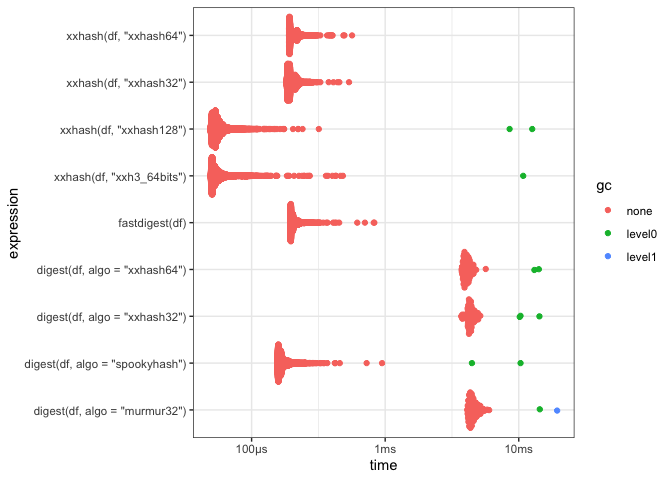
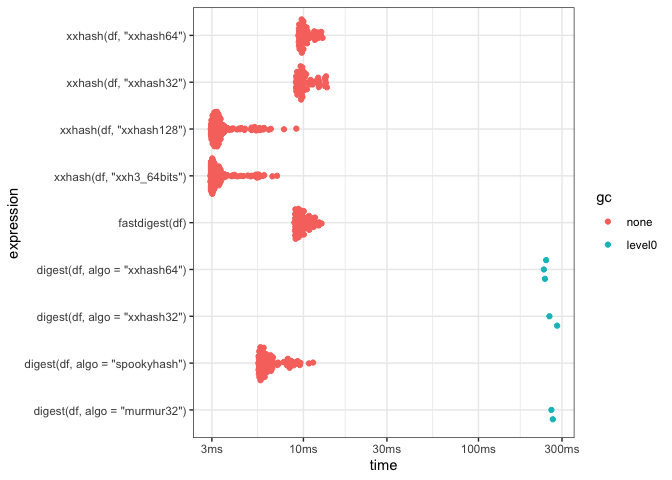
increase size of benchmark data

diff --git a/README.md b/README.md
@@ -97,18 +97,15 @@ library(fastdigest)
 #~~~~~~~~~~~~~~~~~~~~~~~~~~~~~~~~~~~~~~~~~~~~~~~~~~~~~~~~~~~~~~~~~~~~~~~~~~~~~
 # Simple data.frame
 #~~~~~~~~~~~~~~~~~~~~~~~~~~~~~~~~~~~~~~~~~~~~~~~~~~~~~~~~~~~~~~~~~~~~~~~~~~~~~
-N   <- 1e5
+N   <- 5e6
 df  <- data.frame(
   x = runif(N),
   y = sample(N)
 )
 
 size <- pryr::object_size(df)
-#> Registered S3 method overwritten by 'pryr':
-#>   method      from
-#>   print.bytes Rcpp
 size
-#> 1.2 MB
+#> 60 MB
 
 
 res <- bench::mark(
@@ -129,21 +126,22 @@ res <- bench::mark(
   
   check = FALSE
 )
+#> Warning: Some expressions had a GC in every iteration; so filtering is disabled.
 ```
 
 </details>
 
 | package    | expression                      |   median | itr/sec |    MB/s |
 | :--------- | :------------------------------ | -------: | ------: | ------: |
-| xxhashlite | xxhash(df, “xxhash32”)          | 193.74µs |    4934 |  5911.0 |
-| xxhashlite | xxhash(df, “xxhash64”)          | 197.31µs |    4845 |  5804.2 |
-| xxhashlite | xxhash(df, “xxhash128”)         |   54.5µs |   17580 | 21014.3 |
-| xxhashlite | xxhash(df, “xxh3\_64bits”)      |   53.1µs |   17647 | 21567.6 |
-| digest     | digest(df, algo = “xxhash32”)   |   4.34ms |     229 |   264.0 |
-| digest     | digest(df, algo = “xxhash64”)   |   4.06ms |     243 |   281.8 |
-| digest     | digest(df, algo = “murmur32”)   |   4.47ms |     219 |   256.1 |
-| digest     | digest(df, algo = “spookyhash”) | 165.21µs |    5763 |  6932.0 |
-| fastdigest | fastdigest(df)                  | 202.34µs |    4774 |  5659.7 |
+| xxhashlite | xxhash(df, “xxhash32”)          |   9.91ms |      95 |  5776.7 |
+| xxhashlite | xxhash(df, “xxhash64”)          |  10.01ms |      96 |  5715.7 |
+| xxhashlite | xxhash(df, “xxhash128”)         |   3.24ms |     276 | 17647.8 |
+| xxhashlite | xxhash(df, “xxh3\_64bits”)      |   3.15ms |     290 | 18156.6 |
+| digest     | digest(df, algo = “xxhash32”)   | 267.82ms |       4 |   213.7 |
+| digest     | digest(df, algo = “xxhash64”)   | 239.81ms |       4 |   238.6 |
+| digest     | digest(df, algo = “murmur32”)   | 263.47ms |       4 |   217.2 |
+| digest     | digest(df, algo = “spookyhash”) |   6.08ms |     149 |  9414.4 |
+| fastdigest | fastdigest(df)                  |   9.78ms |     100 |  5849.8 |
 
 Hashing a simple data.frame
 
